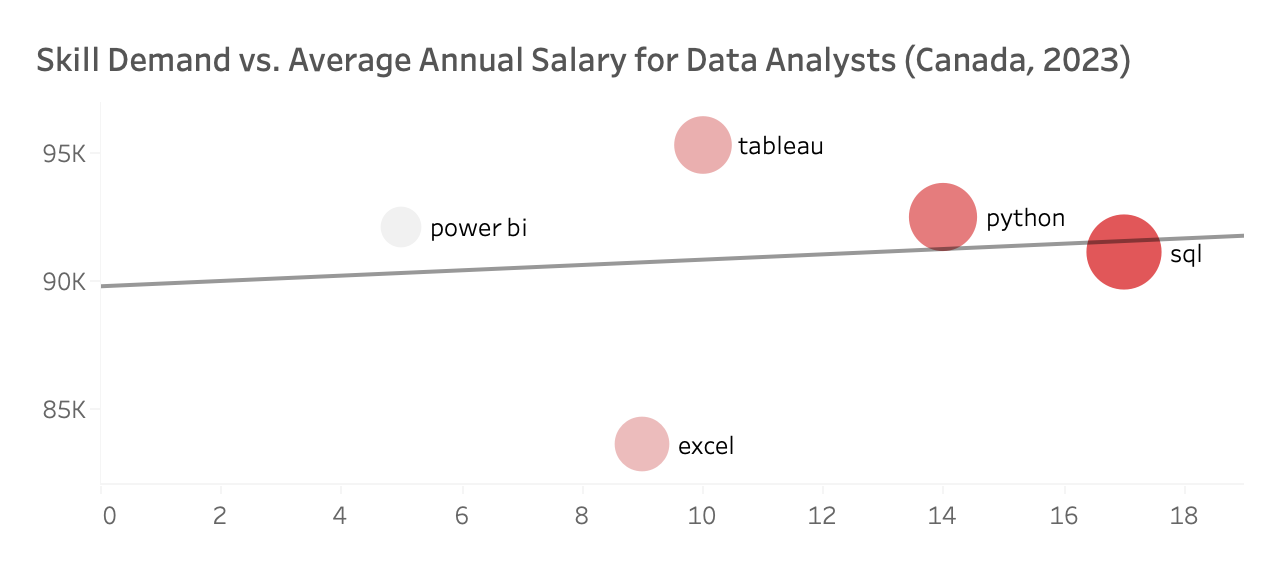
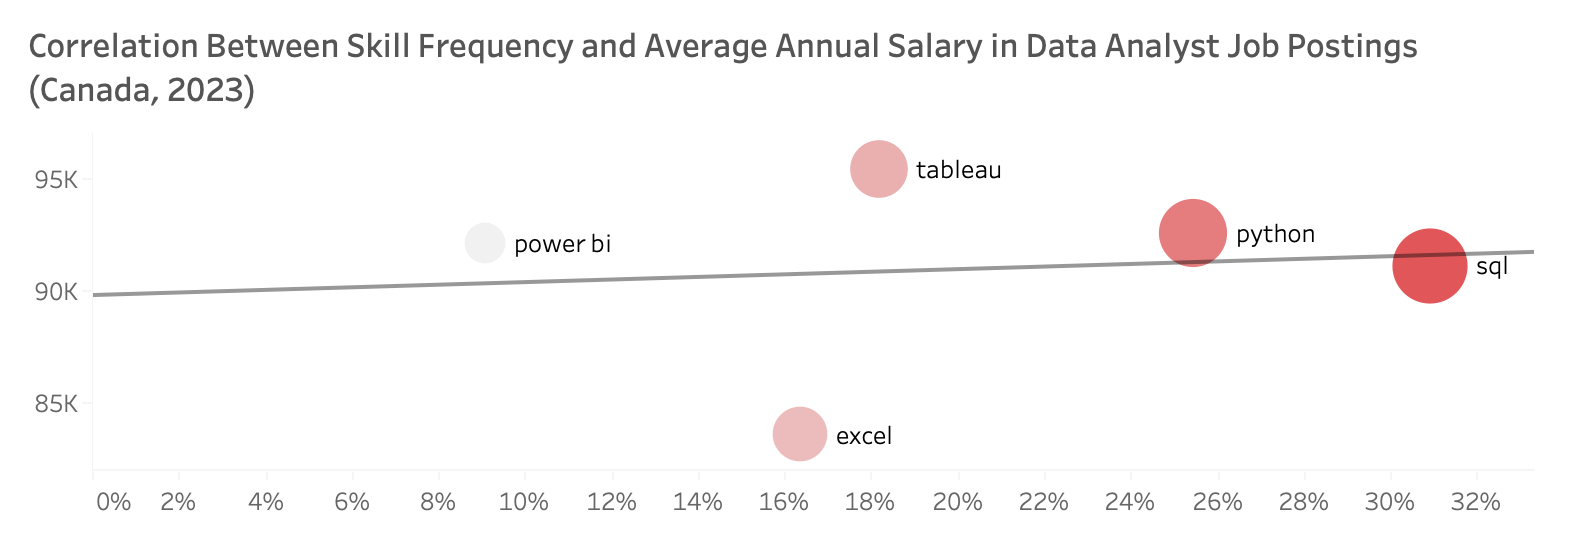
visualization updates

diff --git a/README.md b/README.md
@@ -64,11 +64,11 @@ What skills are most valuable for aspiring Data Analysts? This project uses SQL 
 
 #### Here is a breakdown of the high paying Data Analyst jobs in Canada in 2023:
 
-- **Role Diversity:** Job titles extend beyond "Data Analyst," with high-paying roles including Principal Data Analyst, Data Architect, Analytics Engineering Lead, and specialized analyst positions in Growth, Risk, Banking, and Game Operations.
+- **Role Diversity:** High-paying roles extend beyond “Data Analyst,” including Principal Data Analyst, Data Architect, Analytics Engineering Lead, and specialized analyst positions.
 
-- **Salary Range:** Top salaries range from approximately **$100K to $160K CAD**, with the highest-paying role earning $160K, demonstrating strong earning potential for experienced and specialized analytics professionals.
+- **Salary Range:** Top salaries range from **$100K–$160K** CAD, showing strong earning potential for experienced analytics professionals.
 
-- **Leading Employers:** High-paying opportunities span both technology and enterprise organizations, with companies including Stripe, Swiss Re, Sun Life, ATB Financial, and HoYoverse, indicating strong demand for analytics talent across diverse industries.
+- **Leading Employers:** Opportunities span technology, finance, insurance, and gaming, with employers including Stripe, Swiss Re, Sun Life, ATB Financial, and HoYoverse.
 
 <br>
 
@@ -203,11 +203,11 @@ This query highlight all skills listed for these top-pay Data Analyst jobs:
 ```
 #### Here is a breakdown of the most in-demand skills for Data Analyst in Canada in 2023:
 
-- **SQL** emerged as the most in-demand skill, appearing in **1,247** job postings. It represented **31%** of the total mentions across the top five most-requested skills.
+- **SQL** emerged as the most in-demand skill, accounting for **31%** of the total mentions across the top five most-requested skills.
 
-- **Programming and visualization tools** remain highly valued, with **Python** represnting **25%** of the total mentions (761 job postings), and **Tableau** at **18%** (592 job postings).
+- Programming and data visualization tools remain highly valued, with **Python** accounting for **25%** of total mentions and **Tableau** representing **18%.**
 
-- The results suggest employers prioritize a combination of database querying, spreadsheet analysis, programming, and data visualization skills, highlighting the importance of a well-rounded technical skill set.
+- The results suggest employers prioritize a combination of database querying, spreadsheet analysis, programming, and data visualization, highlighting the importance of a well-rounded technical skill set.
 
 <br>
 
@@ -220,7 +220,7 @@ This query highlight all skills listed for these top-pay Data Analyst jobs:
 
 I analyzed the average annual salary associated with each skill by joining multiple tables to retrieve skill names and filtering for Canadian Data Analyst positions. I then limited the results to the top 25 skills by highest average salary.
 
-This query highlights top skills for Data Analysts based on average annual salary:
+This query highlights top skills for Data Analysts associated with the highest average annual salaries:
 
 ```sql
 
@@ -262,9 +262,9 @@ favouring professionals with a blend of **cloud, visualization, programming, and
 
   ### 5. Optimal Skills to Learn
 
-  I combined the results of the previous two analyses to identify the most valuable skills to learn by comparing skill demand with average annual salary. I calculated skill demand and average salary for each skill, joined the relevant tables to retrieve skill names, and filtered for Canadian Data Analyst job postings with more than five occurrences.
+I combined the results of the previous two analyses to identify the most valuable skills for Data Analysts by comparing skill frequency with average annual salary. I calculated how frequently each skill appeared in job postings, joined the relevant tables to retrieve skill names, and filtered for Canadian Data Analyst job postings with more than five occurrences.
 
-This query highlights the most valuable skills for Data Analysts by combining skill demand with average annual salary:
+This query highlights the most valuable skills for Data Analysts by combining skill frequency with average annual salary:
 
 ```sql
 
@@ -287,28 +287,22 @@ This query highlights the most valuable skills for Data Analysts by combining sk
         COUNT(sjd.skill_id) >= 5
     ORDER BY -- will run first listed
         average_salary DESC,
-        demand_count DESC
-    LIMIT 25;
+        demand_count DESC;
 
 ```
 
 #### Here is a breakdown of the most valuable skills to learn for career development in Data Analytics:
 
-- **SQL** is the most valuable skill for aspiring Data Analysts, combining the highest demand **(17 job postings)** with a strong average annual salary **($91K)**, making it the best overall skill to prioritize.
+- **SQL** stands out as the most valuable skill for aspiring Data Analysts, combining the highest skill frequency **(31%)** with a strong average annual salary **($91K)**, making it the top skill to prioritize based on both demand and earning potential.
 
-- **Tableau** is another high-value skill, offering the highest average annual salary **($95K)** while maintaining strong demand **(10 job postings)**, demonstrating the value of data visualization expertise.
+- **Tableau** is another high-value skill, offering the highest average annual salary **($95K)** among the most in-demand skills while maintaining strong demand **(18%)**, highlighting the value of data visualization expertise.
 
 - The most optimal skills balance demand and salary. While higher demand didn't always translate to higher pay, skills like **SQL, Tableau**, and **Python** provide the strongest combination of market demand and earning potential.
 
 <br>
 
 ![Optimal Skills](assets/query_5.png)
-*Scatterplot with a trend line visualizing the correlation between skill demand and average annual salaries for Data Analysts in Canada, based on 2023 job postings. Based on SQL query results, visualized in Tableau.*
-
-<br>
-
-![Optimal Skills](assets/query_5-a.png)
-*SQL query results listing Data Analyst skills by demand count, with corresponding average annual salary.*
+*Scatterplot with a trend line visualizing the correlation between skill frequency and average annual salaries in Data Analysts job postings in Canada (2023). Based on SQL query results, visualized in Tableau.*
 
 <br>
 
@@ -330,11 +324,11 @@ This analysis explored the Canadian Data Analyst job market by examining salary 
 
 From the analysis, several general insights emerged:
 
-1. **Top Ranking Data Analyst Jobs:** 
+1. **Top Paying Data Analyst Jobs:** 
 The highest paying jobs for Data Analysts in Canada offer a salary range between **$100K** and **$160K**.
 
-2. **Skills Required for these Top Ranking Jobs:**
-High-paying Data Analyst roles consistently require advanced proficiency in **SQL (22% occurrence)** and **Python (19% occurrence)**, making them the most critical technical skills for securing top-paying positions.
+2. **Skills Required for these Top Paying Jobs:**
+High-paying Data Analyst roles most frequently require advanced proficiency in **SQL** and **Python**, representing **22%** and **19%** of skill mentions among these top-paying positions. This highlights both skills as critical for securing higher-paying Data Analyst roles.
 
 3. **Most In-Demand Skills for Data Analysts:**
 **SQL** is the most in-demand skill in the Data Analyst job market, making it essential for job seekers, with **31%** of the total job posting mentions.
@@ -342,10 +336,10 @@ High-paying Data Analyst roles consistently require advanced proficiency in **SQ
 4. **Skills Associated with High Salary Jobs:**
 Specialized skills, such as **Looker**, **Snowflake** and **RedShift**, are associated with the highest average annual salaries, indicating a niche expertise.
 
-5. **Optimal Skills to Learn for Data Analysts: SQL** leads in demand and offers a high average salary, positioning it as one of the most optimal skills for Data Analysts to learn to maximize their market value.
+5. **Optimal Skills to Learn for Data Analysts: SQL** stands out as the most valuable skill, accounting for **31%** of all skill mentions while offering an average annual salary of **$95K**, making it one of the strongest skills for maximizing employability and earning potential.
 
 <br>
 
-This analysis highlights that success as a Data Analyst depends on developing a well-rounded technical skill set, with **SQL emerging as the strongest overall skill** due to its combination of high demand and competitive earning potential. Together with Python and Tableau, these skills provide the greatest market value for aspiring Data Analysts looking to maximize both employability and long-term salary potential.
+This analysis highlights that success as a Data Analyst depends on developing a well-rounded technical skill set, with **SQL emerging as the strongest overall skill** due to its combination of high demand and competitive earning potential. Together with **Python** and **Tableau**, these skills provide the greatest market value for aspiring Data Analysts looking to maximize both employability and long-term salary potential.
 
 <br>